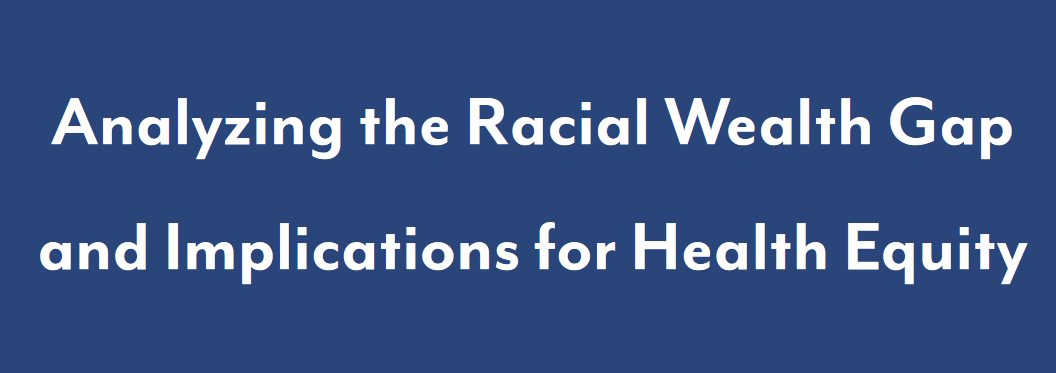
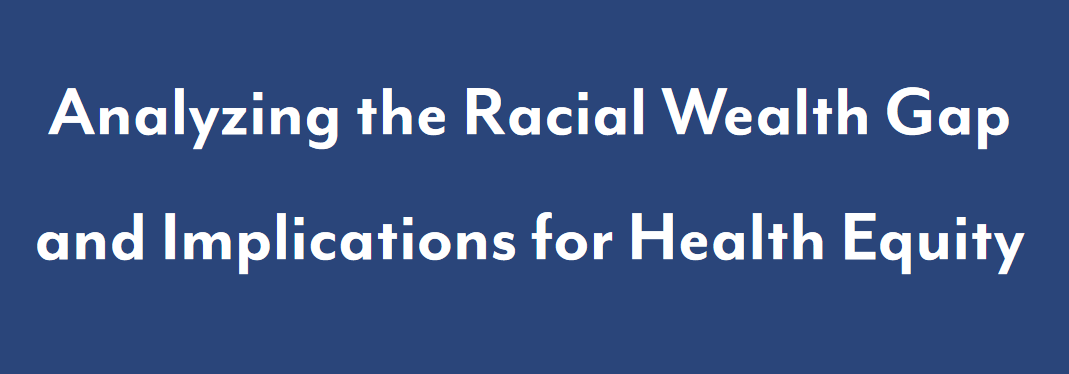
update

Changed region(s): [[0.0312, 0.5603, 0.9688, 0.7668], [0.0312, 0.2359, 0.9688, 0.4424]]

diff --git a/public/project/nychealth-racial-wealth-gap/index.html b/public/project/nychealth-racial-wealth-gap/index.html
@@ -236,7 +236,7 @@
   
   <meta property="og:site_name" content="Belicia Rodriguez">
   <meta property="og:url" content="https://beliciataylor.github.io/project/nychealth-racial-wealth-gap/">
-  <meta property="og:title" content="Assessing the Racial Wealth Gap and Implications for Health Equity | Belicia Rodriguez">
+  <meta property="og:title" content="Analyzing the Racial Wealth Gap and Implications for Health Equity | Belicia Rodriguez">
   <meta property="og:description" content="NYC Department of Health and Mental Hygiene (Contributor)"><meta property="og:image" content="https://beliciataylor.github.io/project/nychealth-racial-wealth-gap/featured.PNG">
   <meta property="twitter:image" content="https://beliciataylor.github.io/project/nychealth-racial-wealth-gap/featured.PNG"><meta property="og:locale" content="en-us">
   
@@ -267,7 +267,7 @@
     "@type": "WebPage",
     "@id": "https://beliciataylor.github.io/project/nychealth-racial-wealth-gap/"
   },
-  "headline": "Assessing the Racial Wealth Gap and Implications for Health Equity",
+  "headline": "Analyzing the Racial Wealth Gap and Implications for Health Equity",
   
   "image": [
     "https://beliciataylor.github.io/project/nychealth-racial-wealth-gap/featured.PNG"
@@ -317,7 +317,7 @@
     Analytics"></a></div></noscript>
     
 
-  <title>Assessing the Racial Wealth Gap and Implications for Health Equity | Belicia Rodriguez</title>
+  <title>Analyzing the Racial Wealth Gap and Implications for Health Equity | Belicia Rodriguez</title>
 
 </head>
 
@@ -541,7 +541,7 @@
 
 
 <div class="article-container pt-3">
-  <h1>Assessing the Racial Wealth Gap and Implications for Health Equity</h1>
+  <h1>Analyzing the Racial Wealth Gap and Implications for Health Equity</h1>
 
   
 
@@ -629,9 +629,9 @@
 </div>
 
 
-<div class="article-header article-container featured-image-wrapper mt-4 mb-4" style="max-width: 720px; max-height: 254px;">
+<div class="article-header article-container featured-image-wrapper mt-4 mb-4" style="max-width: 720px; max-height: 252px;">
   <div style="position: relative">
-    <img src="/project/nychealth-racial-wealth-gap/featured_hu74a4ebf3ceaad734dcc4f2da768fc151_29151_720x0_resize_lanczos_3.PNG" alt="" class="featured-image">
+    <img src="/project/nychealth-racial-wealth-gap/featured_hu2ad4384d3ddefc6b69ac6e529db6a003_22097_720x0_resize_lanczos_3.PNG" alt="" class="featured-image">
     
   </div>
 </div>
@@ -669,7 +669,7 @@
       
       
       <li>
-        <a href="https://twitter.com/intent/tweet?url=https://beliciataylor.github.io/project/nychealth-racial-wealth-gap/&amp;text=Assessing%20the%20Racial%20Wealth%20Gap%20and%20Implications%20for%20Health%20Equity" target="_blank" rel="noopener" class="share-btn-twitter">
+        <a href="https://twitter.com/intent/tweet?url=https://beliciataylor.github.io/project/nychealth-racial-wealth-gap/&amp;text=Analyzing%20the%20Racial%20Wealth%20Gap%20and%20Implications%20for%20Health%20Equity" target="_blank" rel="noopener" class="share-btn-twitter">
           <i class="fab fa-twitter"></i>
         </a>
       </li>
@@ -682,7 +682,7 @@
       
       
       <li>
-        <a href="https://www.facebook.com/sharer.php?u=https://beliciataylor.github.io/project/nychealth-racial-wealth-gap/&amp;t=Assessing%20the%20Racial%20Wealth%20Gap%20and%20Implications%20for%20Health%20Equity" target="_blank" rel="noopener" class="share-btn-facebook">
+        <a href="https://www.facebook.com/sharer.php?u=https://beliciataylor.github.io/project/nychealth-racial-wealth-gap/&amp;t=Analyzing%20the%20Racial%20Wealth%20Gap%20and%20Implications%20for%20Health%20Equity" target="_blank" rel="noopener" class="share-btn-facebook">
           <i class="fab fa-facebook"></i>
         </a>
       </li>
@@ -695,7 +695,7 @@
       
       
       <li>
-        <a href="mailto:?subject=Assessing%20the%20Racial%20Wealth%20Gap%20and%20Implications%20for%20Health%20Equity&amp;body=https://beliciataylor.github.io/project/nychealth-racial-wealth-gap/" target="_blank" rel="noopener" class="share-btn-email">
+        <a href="mailto:?subject=Analyzing%20the%20Racial%20Wealth%20Gap%20and%20Implications%20for%20Health%20Equity&amp;body=https://beliciataylor.github.io/project/nychealth-racial-wealth-gap/" target="_blank" rel="noopener" class="share-btn-email">
           <i class="fas fa-envelope"></i>
         </a>
       </li>
@@ -708,7 +708,7 @@
       
       
       <li>
-        <a href="https://www.linkedin.com/shareArticle?url=https://beliciataylor.github.io/project/nychealth-racial-wealth-gap/&amp;title=Assessing%20the%20Racial%20Wealth%20Gap%20and%20Implications%20for%20Health%20Equity" target="_blank" rel="noopener" class="share-btn-linkedin">
+        <a href="https://www.linkedin.com/shareArticle?url=https://beliciataylor.github.io/project/nychealth-racial-wealth-gap/&amp;title=Analyzing%20the%20Racial%20Wealth%20Gap%20and%20Implications%20for%20Health%20Equity" target="_blank" rel="noopener" class="share-btn-linkedin">
           <i class="fab fa-linkedin-in"></i>
         </a>
       </li>
@@ -721,7 +721,7 @@
       
       
       <li>
-        <a href="https://web.whatsapp.com/send?text=Assessing%20the%20Racial%20Wealth%20Gap%20and%20Implications%20for%20Health%20Equity%20https://beliciataylor.github.io/project/nychealth-racial-wealth-gap/" target="_blank" rel="noopener" class="share-btn-whatsapp">
+        <a href="https://web.whatsapp.com/send?text=Analyzing%20the%20Racial%20Wealth%20Gap%20and%20Implications%20for%20Health%20Equity%20https://beliciataylor.github.io/project/nychealth-racial-wealth-gap/" target="_blank" rel="noopener" class="share-btn-whatsapp">
           <i class="fab fa-whatsapp"></i>
         </a>
       </li>
@@ -734,7 +734,7 @@
       
       
       <li>
-        <a href="https://service.weibo.com/share/share.php?url=https://beliciataylor.github.io/project/nychealth-racial-wealth-gap/&amp;title=Assessing%20the%20Racial%20Wealth%20Gap%20and%20Implications%20for%20Health%20Equity" target="_blank" rel="noopener" class="share-btn-weibo">
+        <a href="https://service.weibo.com/share/share.php?url=https://beliciataylor.github.io/project/nychealth-racial-wealth-gap/&amp;title=Analyzing%20the%20Racial%20Wealth%20Gap%20and%20Implications%20for%20Health%20Equity" target="_blank" rel="noopener" class="share-btn-weibo">
           <i class="fab fa-weibo"></i>
         </a>
       </li>

diff --git a/public/portfolio/index.html b/public/portfolio/index.html
@@ -616,11 +616,11 @@
     
     
     <a href="https://www.nyc.gov/assets/doh/downloads/pdf/cmo/racial-wealth-gap-health-equity.pdf" target="_blank" rel="noopener" class="card-image hover-overlay">
-      <img src="/project/nychealth-racial-wealth-gap/featured_hu74a4ebf3ceaad734dcc4f2da768fc151_29151_550x0_resize_q90_lanczos_3.PNG" alt="" class="img-responsive">
+      <img src="/project/nychealth-racial-wealth-gap/featured_hu2ad4384d3ddefc6b69ac6e529db6a003_22097_550x0_resize_q90_lanczos_3.PNG" alt="" class="img-responsive">
     </a>
     
     <div class="card-text">
-      <h4><a href="https://www.nyc.gov/assets/doh/downloads/pdf/cmo/racial-wealth-gap-health-equity.pdf" target="_blank" rel="noopener">Assessing the Racial Wealth Gap and Implications for Health Equity</a></h4>
+      <h4><a href="https://www.nyc.gov/assets/doh/downloads/pdf/cmo/racial-wealth-gap-health-equity.pdf" target="_blank" rel="noopener">Analyzing the Racial Wealth Gap and Implications for Health Equity</a></h4>
       
       <div class="article-style">
         <p>NYC Department of Health and Mental Hygiene (Contributor)</p>

diff --git a/public/project/index.html b/public/project/index.html
@@ -506,7 +506,7 @@
       
     
     <div>
-      <h2><a href="https://www.nyc.gov/assets/doh/downloads/pdf/cmo/racial-wealth-gap-health-equity.pdf" target="_blank" rel="noopener">Assessing the Racial Wealth Gap and Implications for Health Equity</a></h2>
+      <h2><a href="https://www.nyc.gov/assets/doh/downloads/pdf/cmo/racial-wealth-gap-health-equity.pdf" target="_blank" rel="noopener">Analyzing the Racial Wealth Gap and Implications for Health Equity</a></h2>
       <div class="article-style">
         
           NYC Department of Health and Mental Hygiene (Contributor)

diff --git a/public/tag/reports/index.html b/public/tag/reports/index.html
@@ -506,7 +506,7 @@
       
     
     <div>
-      <h2><a href="https://www.nyc.gov/assets/doh/downloads/pdf/cmo/racial-wealth-gap-health-equity.pdf" target="_blank" rel="noopener">Assessing the Racial Wealth Gap and Implications for Health Equity</a></h2>
+      <h2><a href="https://www.nyc.gov/assets/doh/downloads/pdf/cmo/racial-wealth-gap-health-equity.pdf" target="_blank" rel="noopener">Analyzing the Racial Wealth Gap and Implications for Health Equity</a></h2>
       <div class="article-style">
         
           NYC Department of Health and Mental Hygiene (Contributor)

diff --git a/public/404.html b/public/404.html
@@ -483,7 +483,7 @@
   <h2>Latest</h2>
   <ul>
     
-      <li><a href="/project/nychealth-racial-wealth-gap/">Assessing the Racial Wealth Gap and Implications for Health Equity</a></li>
+      <li><a href="/project/nychealth-racial-wealth-gap/">Analyzing the Racial Wealth Gap and Implications for Health Equity</a></li>
     
       <li><a href="/project/nyfed-solia-2020/">The State of Low Income America</a></li>
     

diff --git a/content/project/nychealth-racial-wealth-gap/index.md b/content/project/nychealth-racial-wealth-gap/index.md
@@ -1,5 +1,5 @@
 ---
-title: Assessing the Racial Wealth Gap and Implications for Health Equity
+title: Analyzing the Racial Wealth Gap and Implications for Health Equity
 summary: NYC Department of Health and Mental Hygiene (Contributor)
 tags:
 - Reports
